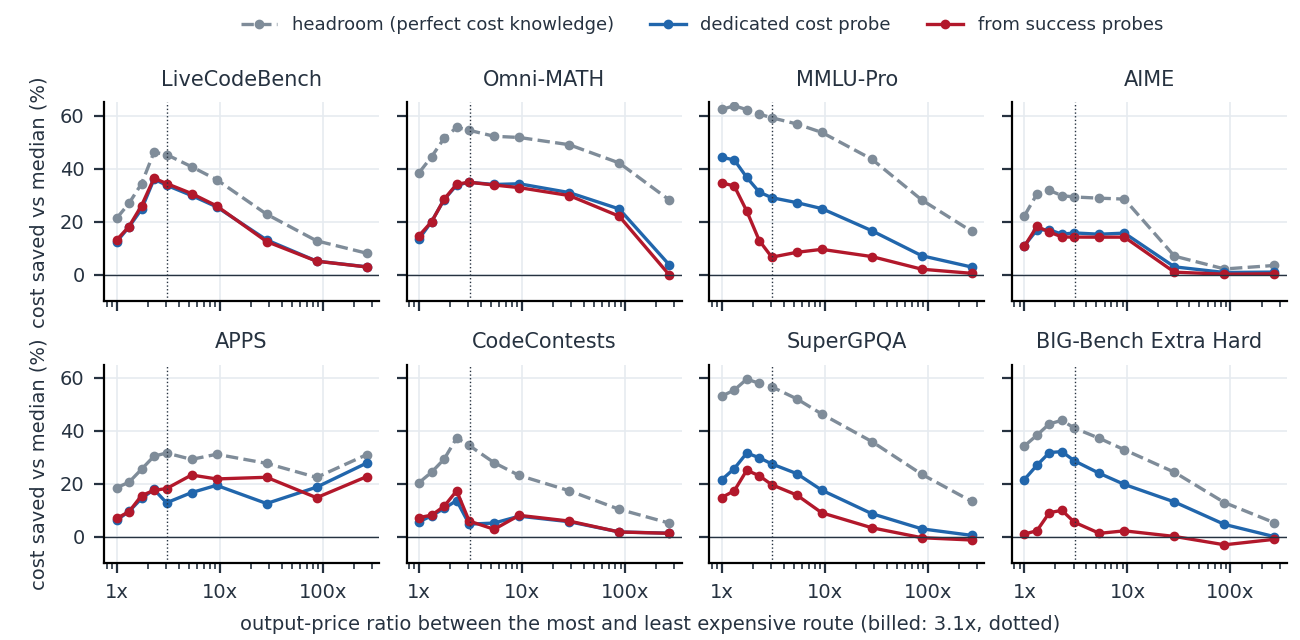
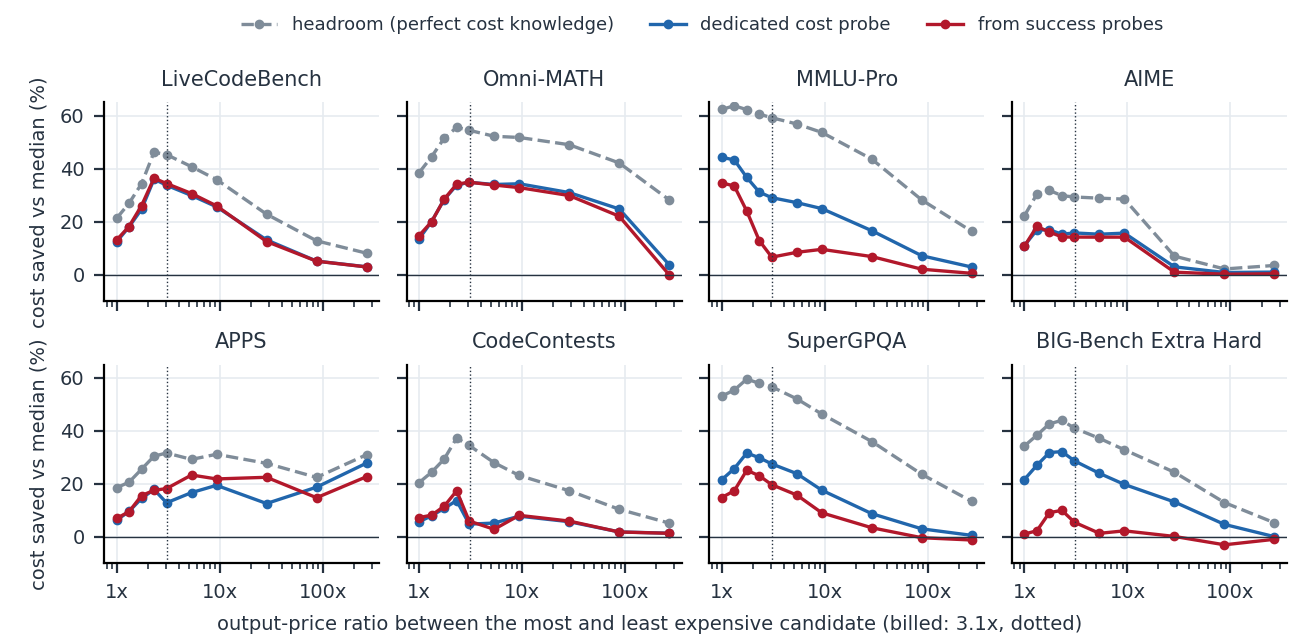
TMLR paper figures: 'candidate' instead of 'route' in figure text

Changed region(s): [[0.1538, 0.9375, 0.8308, 1.0]]

diff --git a/paper_tmlr/make_capture_fig.py b/paper_tmlr/make_capture_fig.py
@@ -35,7 +35,7 @@ for ds, nm in (("lcb", "LCB"), ("omni500", "Omni-MATH"), ("mmlupro", "MMLU-Pro")
     h, o = r["headroom"]["mean"], r["ours"]["mean"]
     ax.scatter([h], [o], s=20, marker="^", facecolors="white", edgecolors=OURS, lw=.9, zorder=3)
     ax.annotate(f"{nm}, non-reasoning", (h, o), xytext=OFFNR[ds], textcoords="offset points", fontsize=5.5, color=OURS, ha="right" if ds == "lcb" else "left")
-ax.scatter([], [], s=20, marker="^", facecolors="white", edgecolors=OURS, lw=.9, label="ours, non-reasoning routes")
+ax.scatter([], [], s=20, marker="^", facecolors="white", edgecolors=OURS, lw=.9, label="ours, non-reasoning candidates")
 ax.scatter([], [], s=18, color=OURS, label="our probes"); ax.scatter([], [], s=16, facecolors="white", edgecolors=EXT, label="best external estimator")
 ax.legend(frameon=False, fontsize=6, loc="upper left"); ax.set_xlim(0, 72); ax.set_ylim(-5, 45)
 ax.set_xlabel("headroom: perfect per-query cost vs median (%)"); ax.set_ylabel("cost saved vs median (%)")

diff --git a/paper_tmlr/make_shares_fig.py b/paper_tmlr/make_shares_fig.py
@@ -40,7 +40,7 @@ for ax, (p, title) in zip(axes.flat, PANELS):
         sp.set_visible(False)
 h = [plt.Rectangle((0, 0), 1, 1, color=c) for _, _, c in ROUTES]
 fig.legend(h, [l for _, l, _ in ROUTES], ncol=5, frameon=False, fontsize=6.4, loc="upper center", bbox_to_anchor=(.54, 1.0), handlelength=1.2, columnspacing=1.2)
-fig.text(.54, .935, "Share of test queries per route (%), routes ordered by cost per query; right: spend per 1,000 queries", ha="center", fontsize=6.2, color=MUTED)
+fig.text(.54, .935, "Share of test queries per candidate (%), candidates ordered by cost per query; right: spend per 1,000 queries", ha="center", fontsize=6.2, color=MUTED)
 for s in ("pdf", "png"):
     fig.savefig(HERE / "figures" / f"route_shares.{s}", dpi=220)
 print("saved")

diff --git a/paper_tmlr/make_pricegap_fig.py b/paper_tmlr/make_pricegap_fig.py
@@ -31,7 +31,7 @@ for ax, (title, p) in zip(axes.flat, PANELS):
         ax.spines[sp].set_visible(False)
 for ax in axes.flat:
     ax.set_xticks([1, 10, 100]); ax.set_xticklabels(["1x", "10x", "100x"])
-fig.supxlabel("output-price ratio between the most and least expensive route (billed: 3.1x, dotted)", fontsize=7, y=.01)
+fig.supxlabel("output-price ratio between the most and least expensive candidate (billed: 3.1x, dotted)", fontsize=7, y=.01)
 for ax in axes[:, 0]:
     ax.set_ylabel("cost saved vs median (%)")
 h, l = axes[0, 0].get_legend_handles_labels(); fig.legend(h, l, frameon=False, fontsize=6.5, loc="upper center", ncol=3, bbox_to_anchor=(.54, 1.0))
